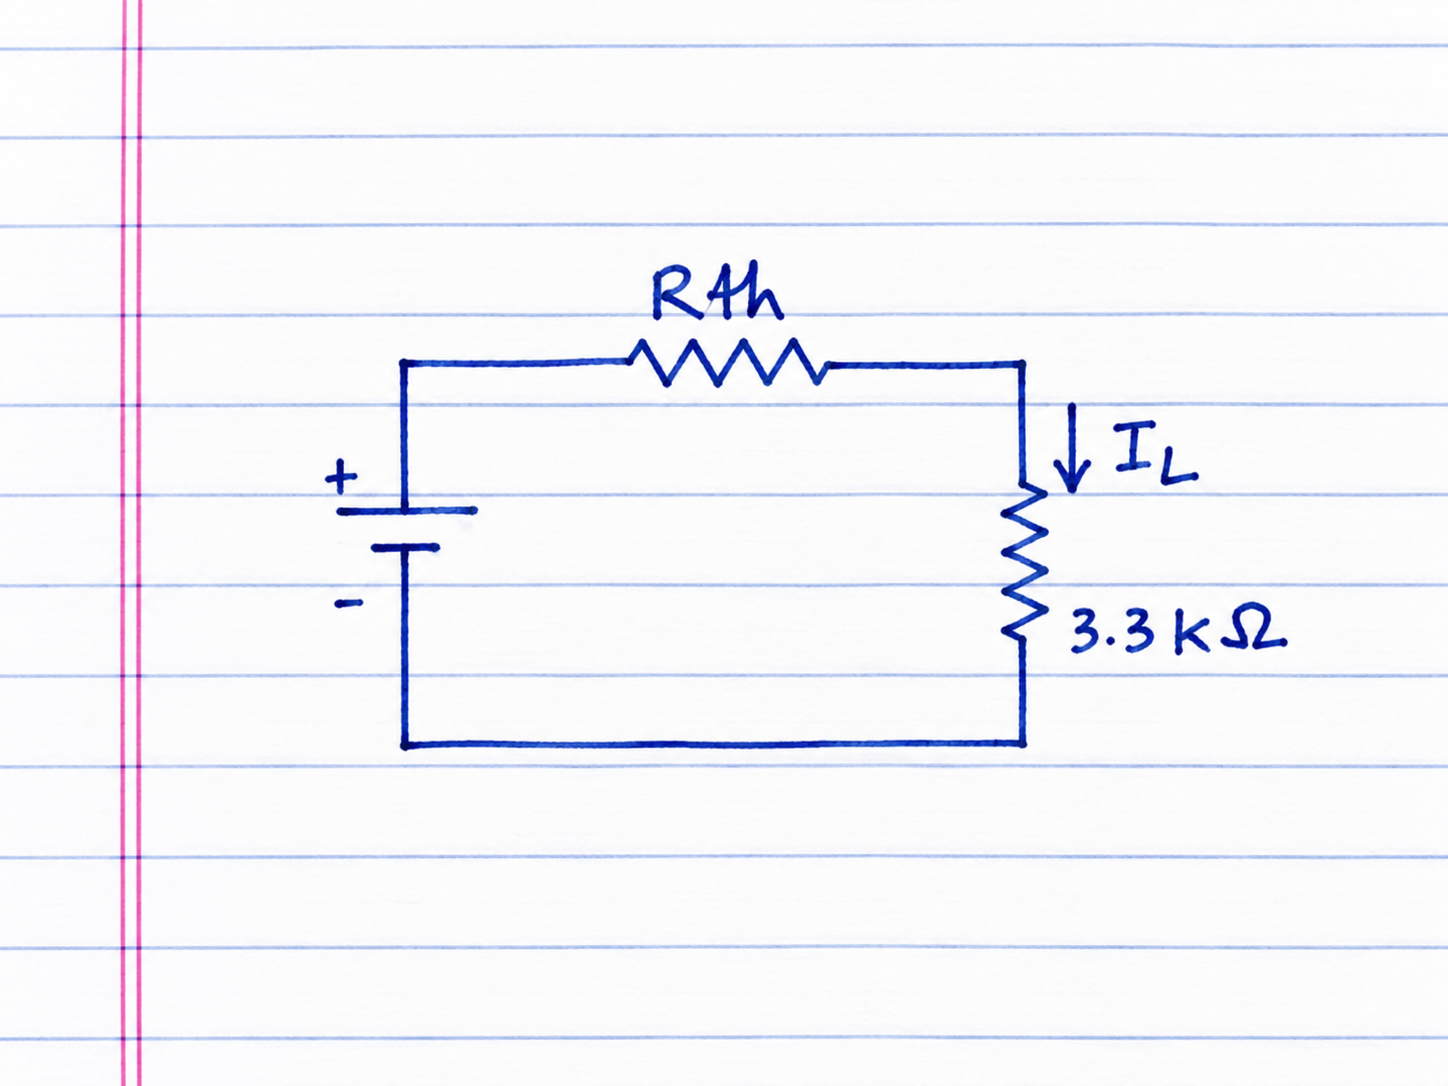
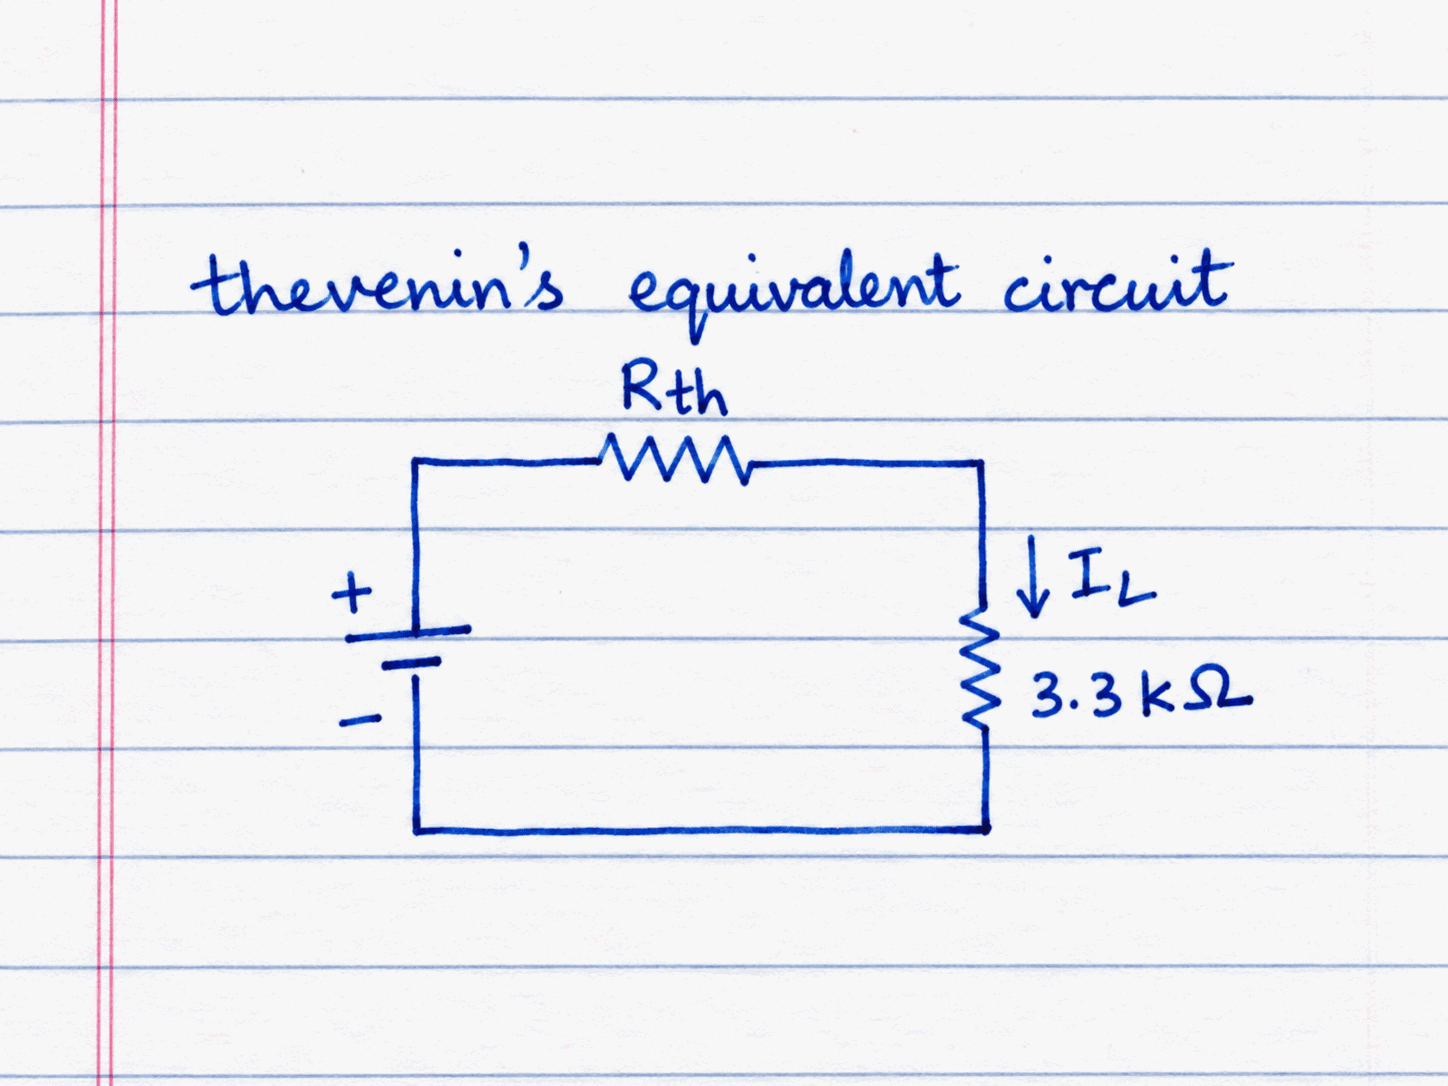
pankusdesk-bee-thevenin-classnotes-delta-2026-09-12

diff --git a/college/1-1/basic-electrical-engineering/kb/class-log/2026-09-09/raw.md b/college/1-1/basic-electrical-engineering/kb/class-log/2026-09-09/raw.md
@@ -18,7 +18,7 @@ The first redraw shows the original two-source circuit. The second redraw shows 
 Note: In the notebook sequence, the right-hand source in the original sketch is unlabeled, but the next sketch clearly says “When 20 V is acting alone”. To keep the three Superposition sketches consistent with each other and with the theorem, the redraw treats the original second source as 20 V. In the source-isolation sketches, only one source remains active at a time and the other voltage source is suppressed by a short circuit.
 
 \[
-15-V=rac{V}{3.3}+rac{V}{2.2}
+15-V=\dfrac{V}{3.3}+\dfrac{V}{2.2}
 \]
 
 ## Page 2 — Superposition example continued and Thevenin’s theorem
@@ -26,11 +26,11 @@ Note: In the notebook sequence, the right-hand source in the original sketch is 
 ### When 20 V is acting alone
 
 \[
-rac{20-V}{2.2}=V+rac{V}{3.3}
+\dfrac{20-V}{2.2}=V+\dfrac{V}{3.3}
 \]
 
 \[
-V=5.17	ext{ V},\qquad I'=1.56	ext{ mA}
+V=5.17\text{ V},\qquad I'=1.56\text{ mA}
 \]
 
 ### Superposition example — explanation
@@ -50,16 +50,19 @@ The corrected redraws are meant to make the class-note working internally consis
 
 Any two-terminal linear bilateral network can be replaced by an equivalent circuit consisting of an equivalent source \(V_{th}\) (or \(V_{oc}\)) in series with resistance \(R_{th}\).
 
-The page then sketches an example network and the open-circuit-voltage arrangement for \(V_{th}\) or \(V_{oc}\).
+- \(V_{th}\) or \(V_{oc}\): open-circuit voltage measured between the load terminals.
+- \(R_{th}\): Thevenin resistance seen from the load terminals with the independent sources replaced by their internal resistances.
+
+The class example is shown first as the original loaded network, followed by the open-circuit arrangement used for \(V_{th}\) or \(V_{oc}\).
 
 ## Page 3 — Thevenin resistance, equivalent circuit and worked network
 
-The page sketches the circuit used to obtain \(R_{th}\), followed by the Thevenin equivalent circuit with the load reconnected.
+The next sketch suppresses the source and shows the network used to obtain \(R_{th}\). The following sketch is the Thevenin equivalent circuit with the 3.3 kΩ load reconnected and the load current \(I_L\) marked downward.
 
 A further two-source circuit is written with node voltage \(V\):
 
 \[
-rac{18-V}{1}+rac{22-V}{2.2}=rac{V}{3.3}
+\dfrac{18-V}{1}+\dfrac{22-V}{2.2}=\dfrac{V}{3.3}
 \]
 
 ## Page 4 — Corrected copy and source-reduction sketch
@@ -67,13 +70,13 @@ A further two-source circuit is written with node voltage \(V\):
 The corrected copy of the two-source circuit repeats:
 
 \[
-rac{18-V}{1}+rac{22-V}{2.2}=rac{V}{3.3}
+\dfrac{18-V}{1}+\dfrac{22-V}{2.2}=\dfrac{V}{3.3}
 \]
 
 The written results are:
 
 \[
-V=10.24	ext{ V},\qquad I=3.10	ext{ mA}
+V=10.24\text{ V},\qquad I=3.10\text{ mA}
 \]
 
 The lower part of the page contains another source-reduction/checking sketch. The calculations underneath are crossed through and are not transcribed as final working.

diff --git a/college/1-1/basic-electrical-engineering/kb/audits/unit-1-2026-09-12-thevenin-class-note-integration.md b/college/1-1/basic-electrical-engineering/kb/audits/unit-1-2026-09-12-thevenin-class-note-integration.md
@@ -1,0 +1,20 @@
+# BEE Unit I — 9 Sep Thevenin class-note integration — 12 September 2026
+
+- Used the current `re.zip` workspace as the source of truth.
+- Integrated the four user-approved NRS Thevenin redraws into the dated **9 September 2026** BEE class-note entry in notebook order.
+- Added `c4.png` for the original Thevenin example network and `c5.png` for the open-circuit `Vth` / `Voc` sketch.
+- Replaced the earlier `c6.png` and `c7.png` assets with the newly approved redraws for the `Rth` circuit and the Thevenin equivalent circuit with the 3.3 kΩ load.
+- Preserved the class-note sequence: Superposition → Thevenin statement → original network → `Vth` / `Voc` → `Rth` → Thevenin equivalent → later worked network.
+- Kept `c8.png`–`c10.png` as pending placeholders; no values, labels or calculations were invented for those later figures.
+- Updated the 9 Sep source-manifest status from five integrated figures to seven integrated figures, with three placeholders remaining.
+- Repaired malformed LaTeX escape sequences in the 9 Sep raw transcription while editing that record.
+- The class-note Thevenin sketch is not treated as an exact duplicate of the numbered textbook worked examples; it remains in the dated class-note record.
+
+## Verification performed
+
+- `python college/1-1/basic-electrical-engineering/kb/tools/verify_kb.py` → **PASS**.
+- `python scripts/tools/verify_college.py` → **PASS**.
+- Custom integration check confirmed `c4.png`–`c7.png` exist, are referenced in notebook order at 1448×1086, and `c8.png`–`c10.png` remain the only 9 Sep placeholders.
+- Custom manifest check confirmed the 9 Sep entry reports **7 integrated redraws / 3 placeholders**.
+- Scanned the edited 9 Sep `entry.json` and `raw.md` for malformed control-character LaTeX escaping; no decoded tab/form-feed corruption remains.
+- Visually inspected the optimized `c4.png`–`c7.png` assets after PNG palette optimization; labels and circuit topology remain legible and unchanged from the user-approved redraws.
